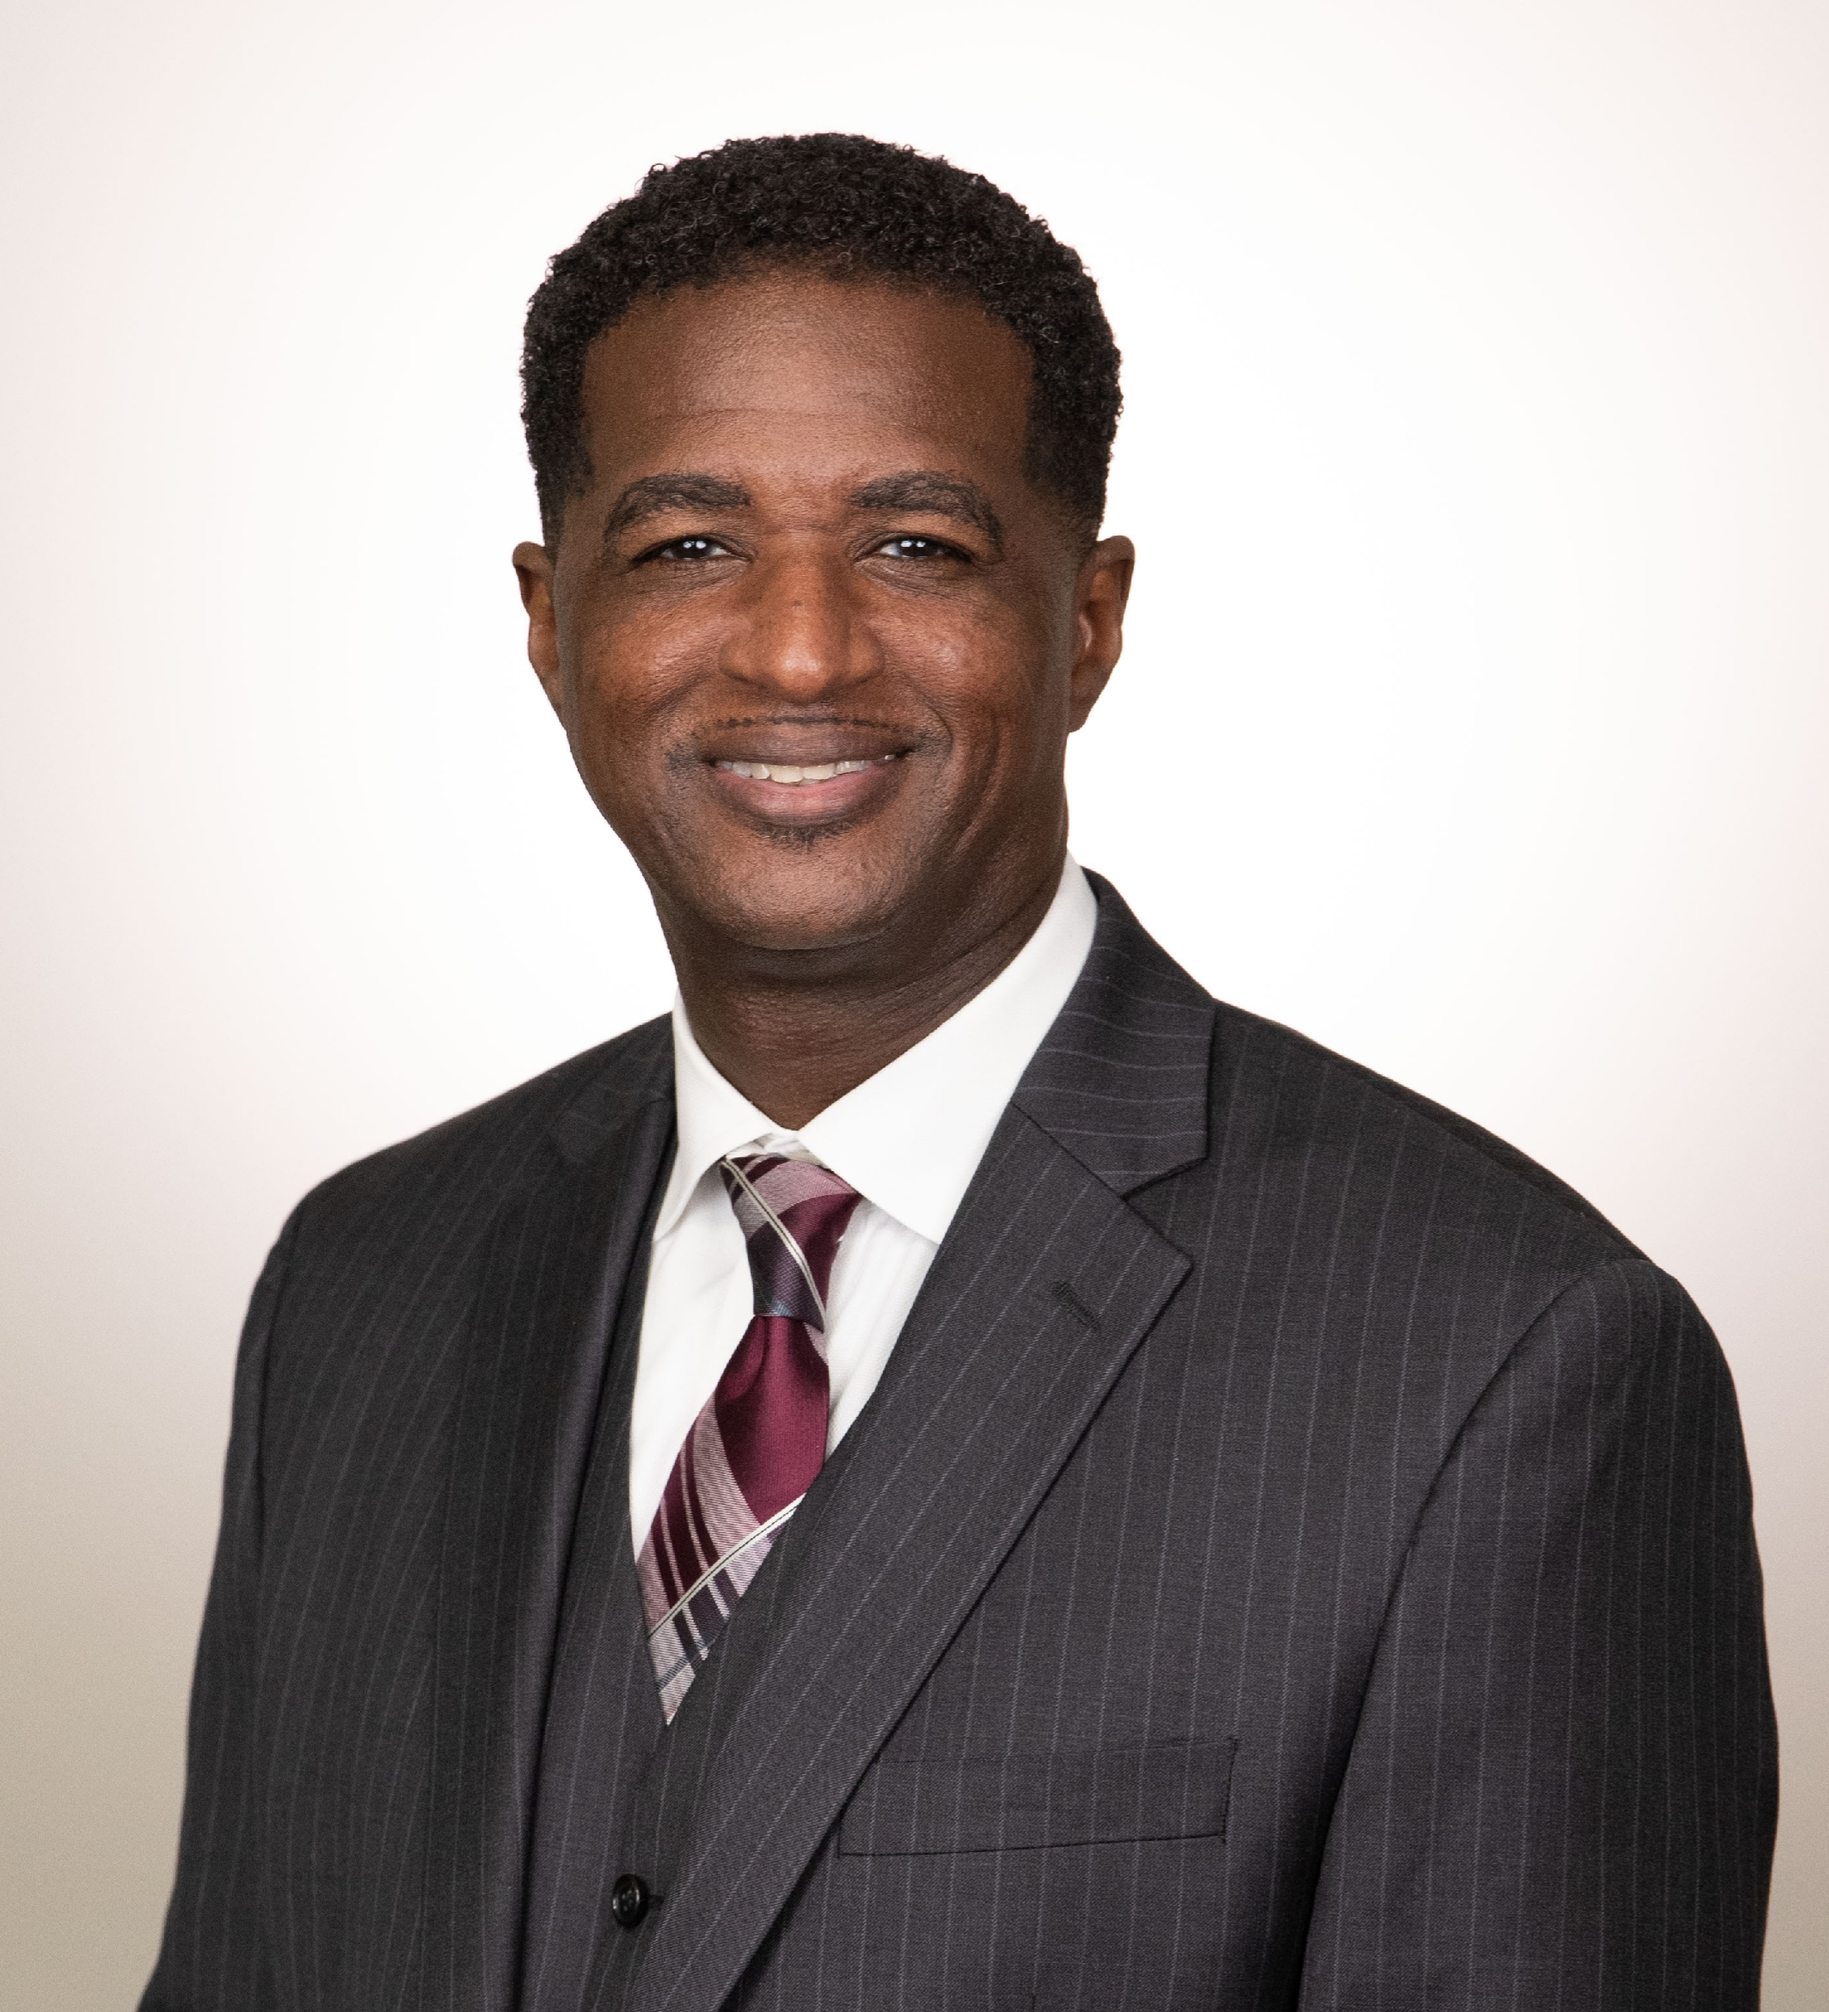
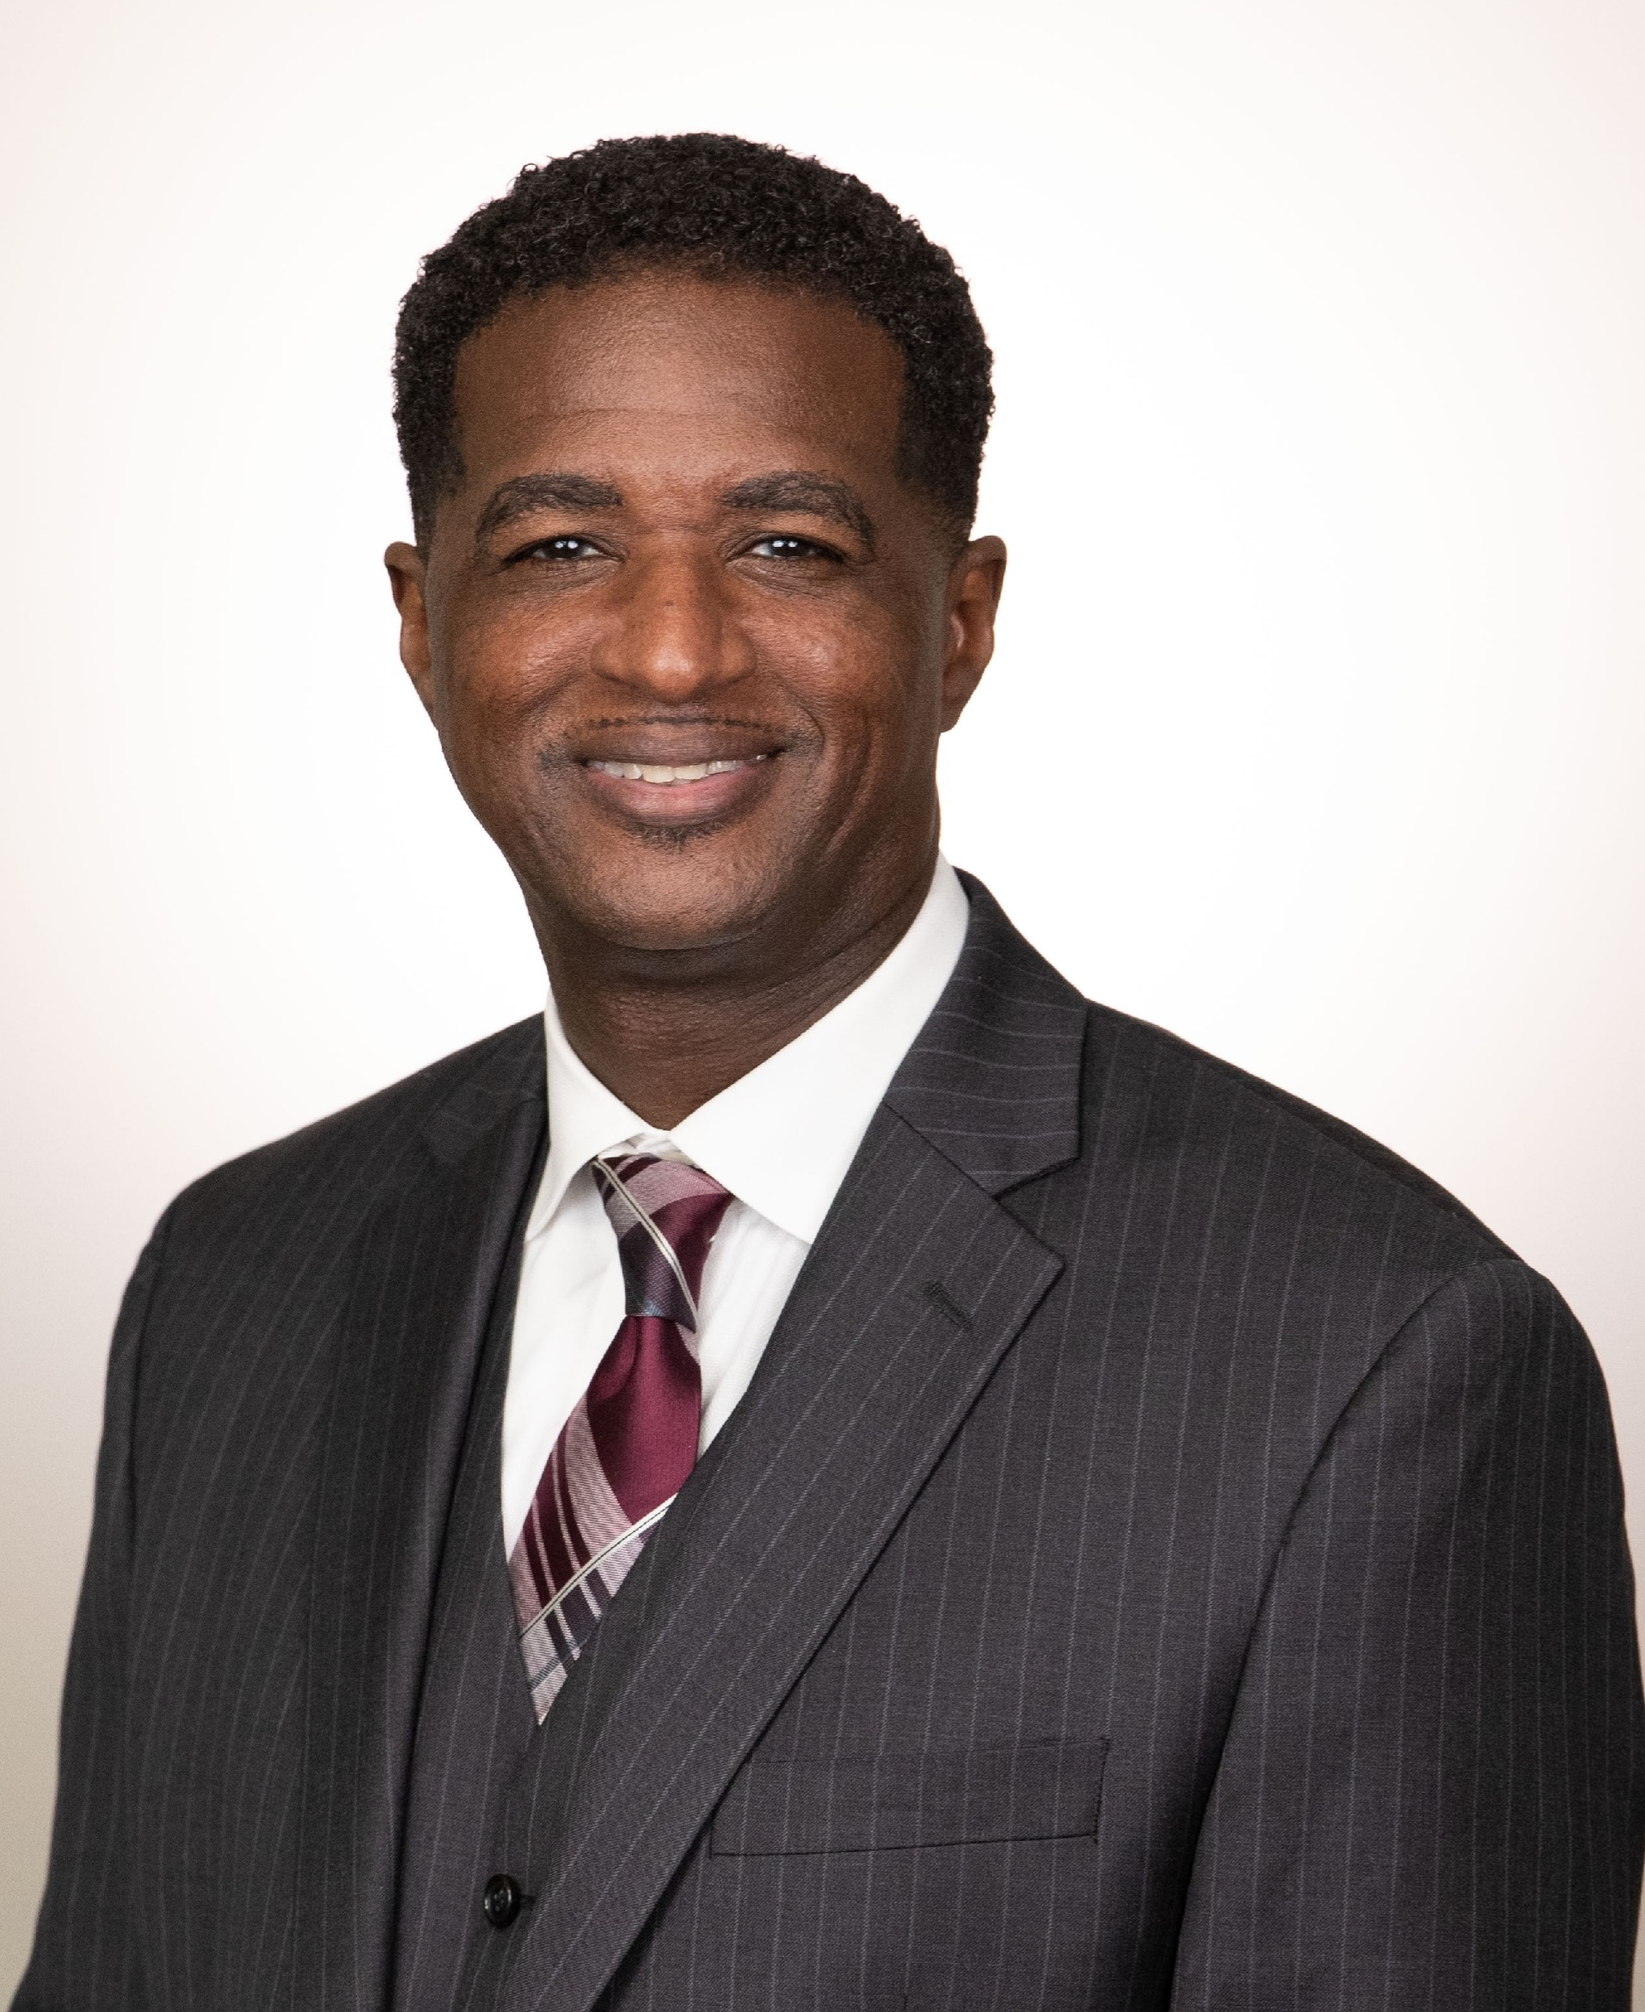
about page completed

diff --git a/pages/about.html b/pages/about.html
@@ -17,7 +17,7 @@
         <div class="container-fluid">
             <div>
                 <a class="navbar-brand" href="index.html">
-                    <img class="logo" src="/images/logo.png" alt="New Frontier 21 Logo" />
+                    <img class="logo" src="/images/logo.png" alt="New Frontier 21 LLC Logo" />
                 </a>
             </div>
             
@@ -51,12 +51,12 @@
             
         </div>
     </nav>
-    <section class="container-fluid mb-5">
+    <section class="container-fluid px-0 mb-5">
         <div class="img-container align-items-center d-flex justify-content-center">
             <h1 class="display-3 text-light heading-1">About Us</h1>
         </div>           
     </section>
-    <section class="container-fluid text-light">
+    <section class="container-md text-light">
         <div class="my-5">
             <h2 class="h2 text-center mb-3">Empowering Schools, Transforming Futures</h2>
             <p class="h5 text-center">We are passionate about driving <span>sustainable</span> school <span>improvement</span>.</p>
@@ -80,16 +80,17 @@
             </div>
             <p class="p-open-sans text-center">Our expertise is grounded in our educational books, ensuring a robust foundation for our innovative strategies.</p>
         </div>
-        <div class="">
-            <h2 class="h2 text-center mb-3">Meet the <span>CEO</span></h2>
-            <div class="container-lg">
-                <div class="row">
+        <div class="d-flex justify-content-center mb-5">
+            <div class="container-md">
+                <h2 class="h2 text-center mb-5">Meet the <span>CEO</span></h2>
+                <div class="row d-flex justify-content-center my-5">
                     <div class="col-sm-4 d-flex justify-content-end">
                         <img class="headshot" src="/images/about-headshot.jpg" alt="Headshot of Dr. Muhammad"/>
                     </div>
                     <div class="col-sm-5 d-flex justify-content-start align-items-center">
-                        <div class="">
-                            <h3 class="name">Dr. Anthony Muhammad Ph.D.</h3>
+                        <div class="ps-3">
+                            <h3 class="h6">World-renowned educator, writer and speaker</h3>
+                            <h3 class="name">Dr. Anthony <br> Muhammad Ph.D.</h3>
                             <ul class="footer-socials list-inline mt-3">
                                 <li class="list-inline-item">
                                     <a href="#"><img src="/images/linkedin-icon-white.png" alt="LinkedIn Icon" class="social-icon"></a>
@@ -101,27 +102,34 @@
                                     <a href="#"><img src="/images/facebook-icon-white.png" alt="Facebook Icon" class="social-icon"></a>
                                 </li>
                             </ul>
-                            <h3 class="h6">World-renowned educator, writer and speaker</h3>
                         </div>
                     </div>
-                    <p class="">
-                        Dr. Muhammad is a highly sought-after educational speaker and presenter. <br>
-                        With nearly 20 years of experience as a teacher, assistant principal, and principal, he has transformed school cultures and student proficiency globally. <br>
-                        Our work is grounded in the research and theories of Dr. Anthony Muhammad, as a beacon of guidance and inspiration for educators and leaders alike.
-                    </p>
-                </div>            
+                </div>
+                <div class="row flex-row justify-content-center">
+                    <div class="col-9">
+                        <p class="p-open-sans">
+                            Dr. Muhammad is a highly sought-after educational speaker and presenter.
+                            <br>
+                            <br>
+                            With nearly 20 years of experience as a teacher, assistant principal, and principal, he has transformed school cultures and student proficiency globally.
+                            <br>
+                            <br>
+                            Our work is grounded in the research and theories of Dr. Anthony Muhammad, as a beacon of guidance and inspiration for educators and leaders alike.
+                        </p>
+                    </div>
+                </div>
             </div>
         </div>
 
-        <div class="">
-            <h2 class="h4">Known For</h2>
-            <div>
+        <div class="mt-5">
+            <h2 class="h2 text-center mb-5">Known For</h2>
+            <div class="row d-flex justify-content-center">
                 <div class="col-md-4 d-flex flex-column align-items-center px-4 my-4">
                     <h3 class="h6 text-center my-4">Prolific best selling author</h3>
                     <p class="text-center">
                         The books offer practical strategies, actionable insights, and act as invaluable resources to support your journey towards educational excellence and positive change.
                     </p>
-                    <div class="d-flex justify-content-end mt-5 pe-5">
+                    <div class="">
                         <button type="button" class="btn btn-warning">Explore Books</button>
                     </div>
                 </div>
@@ -130,26 +138,32 @@
                     <p class="text-center">
                         Ut dignissim, nisi quis venenatis ultricies, quam neque varius quam, in placerat eros ante finibus eros. Vestibulum ante ipsum primis in faucibus orci luctus et ultrices posuere cubilia curae.
                     </p>
-                    <div class="d-flex justify-content-end mt-5 pe-5">
+                    <div class="">
                         <button type="button" class="btn btn-warning">Upcoming Events</button>
                     </div>
                 </div>
+            </div>
+            <div class="row d-flex justify-content-center">
                 <div class="col-md-4 d-flex flex-column align-items-center px-4 my-4">
-                    <h3 class="h6 text-center my-4">Ranked #4 Educational Guru Globally</h3>
-                    <img class="icons1" src="/images/circle.png" alt="Icon"/>
-                    <p class="text-center">
-                        Ut dignissim, nisi quis venenatis ultricies, quam neque varius quam, in placerat eros ante finibus eros. Vestibulum ante ipsum primis in faucibus orci luctus et ultrices posuere cubilia curae.
-                    </p>
-                    <div class="d-flex justify-content-end mt-5 pe-5">
+                    <h3 class="h6 text-center my-4">Ranked <span>#4</span> Educational Guru Globally</h3>
+                    <img class="icons3" src="/images/global_guru_logo.png" alt="Logo of GlobalGurus.org "/>
+                    <figure class="mt-4 text-center">
+                        <blockquote class="blockquote ">
+                          <p>Ut dignissim, nisi quis venenatis ultricies, quam neque varius quam, in placerat eros ante finibus eros. Vestibulum ante ipsum primis in faucibus orci luctus et ultrices posuere cubilia curae.</p>
+                        </blockquote>
+                        <figcaption class="blockquote-footer">
+                          Writers at <cite title="Source Title">GlobalGurus.org</cite>
+                        </figcaption>
+                    </figure>
+                    <div class="">
                         <button type="button" class="btn btn-warning">Read Article</button>
                     </div>
                 </div>
-
             </div>
         </div>
     </section>
  
-    <section class="footer bg-dark-blue text-light pt-5">
+    <section class="footer bg-dark-blue text-light mt-5 pt-5">
         <footer>
             <div class="footer-main d-flex justify-content-around">
                 <div class="">

diff --git a/css/about.css b/css/about.css
@@ -45,23 +45,52 @@ p>span,h2>span {
 }
 img.icons1 {
     width: 7rem;
+    height: auto;
 }
 .p-open-sans {
     font-family: "Open Sans", sans-serif;
+    line-height: 1.5rem;
+    
 }
 
+
 img.headshot {
-    width: 20rem;
+    height: 25rem;
     border-radius: 30px;
 }
 h3.name {
     font-family: "Open Sans", sans-serif;
     font-size: 2rem;
-    letter-spacing: -2px;
-    font-weight: 700;
+    letter-spacing: -1px;
+    font-weight: 800;
+    
 }
 
 h3.h6 {
     font-style: italic;
     font-weight: 200;
+    font-size: 1.25rem;
+}
+
+h3>span {
+    color: #FFCF00;
+    font-family: "Open Sans", sans-serif;
+    font-weight: 700;
+    font-size: 2rem;
+    text-transform: none;
+}
+
+img.icons3 {
+    width: 15rem;
+    height: auto;
+}
+.btn-bluev2 {
+    background-color: #1a263700;
+    border: none;
+    color: #F4F5F5;
+    font-family: "Josefin Sans", sans-serif;
+    font-weight: 600;
+    padding: 10px 40px;
+    /* font-size: medium; */
+    box-shadow: 0 0 10px 0 #0d131be7;
 }
